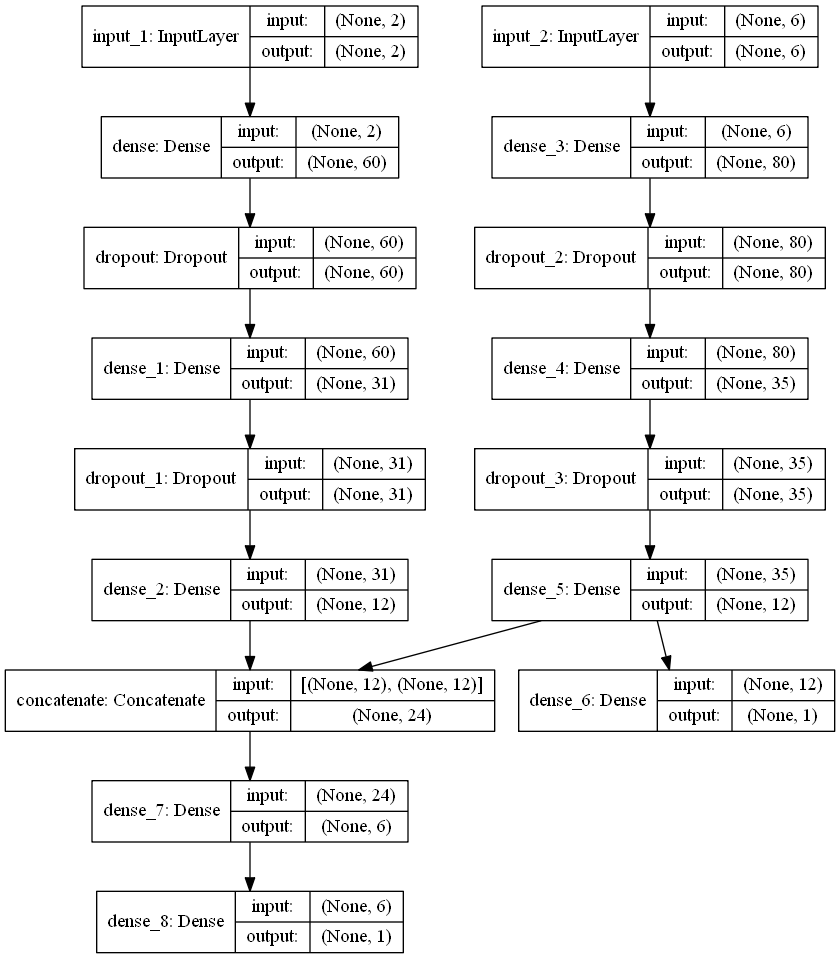
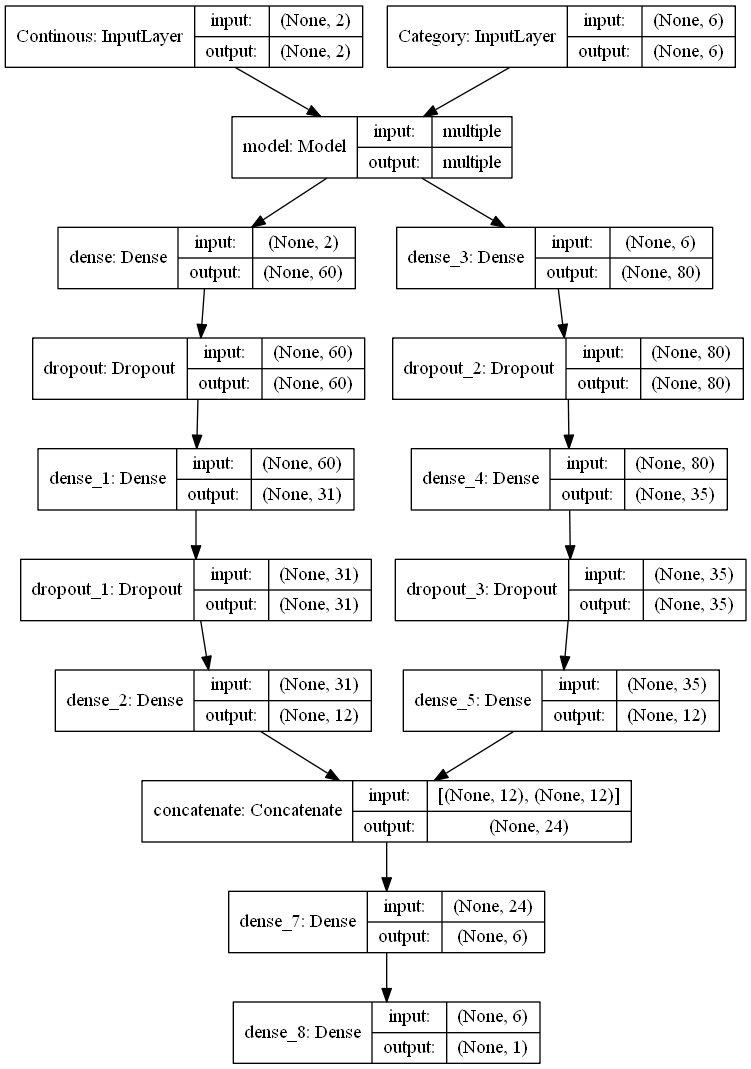
Update

Changed region(s): [[0.0, 0.0, 1.0, 0.9979], [0.0, 0.6955, 0.1225, 0.756], [0.0919, 0.8165, 0.1531, 0.877]]

diff --git a/tensorflow/Intro/kera_multi_input_functional.py b/tensorflow/Intro/kera_multi_input_functional.py
@@ -22,10 +22,14 @@ data = pd.read_csv('car.csv', compression='gzip')
 
 
 # Define target and model year
-target = data.pop('MPG')
-modelyear = data.pop('Model_year')
+target = data[['MPG']]
+target1 = data.pop('MPG')
+
+modelyear = data['Model_year']
 
 
+
+print(data.head(), target.head(), sep=sp, end=sp)
 # define dummies for categorical variables
 # data = pd.get_dummies(data, columns=['Origin','Model_year','Cylinders'], prefix='D', 
 #                     drop_first=True)
@@ -39,9 +43,17 @@ dimen_ratio = data.shape[0] / unique_shape[0]
 print(unique_shape, dimen_ratio, sep=sp, end=sp)
 
 
+
+
+
+
 # Embedding for model year
 _myshape = modelyear.values.reshape(-1, 1).shape
-model_year_input = tf.keras.Input(shape=(_myshape[1],))
+print(_myshape[1], unique_shape[0], sep=sp, end=sp)
+
+
+
+model_year_input = tf.keras.Input(shape=(_myshape[1],), name='Embedding')
 
 modelyear_embed = tf.keras.layers.Embedding(input_dim=unique_shape[0],
                                             input_length=1,
@@ -55,7 +67,7 @@ year_flatten = tf.keras.layers.Flatten()(modelyear_tensor)
 year_model = tf.keras.Model(inputs=[model_year_input], outputs=[year_flatten])
 
 
-'''
+
 
 # colnames = data.columns
 print(data.head())
@@ -93,7 +105,9 @@ xtrain, xtest, ytrain, ytest = train_test_split(data, target, test_size=0.2, ran
 # xtrain2 = pd.DataFrame([xtrain.pop(x) for x in xtrain.columns[0:4]]).T
 # xtest2 = pd.DataFrame([xtest.pop(x) for x in xtest.columns[0:4]]).T
 xtrain2 = pd.DataFrame([xtrain.pop(x) for x in xtrain.columns[0:6]]).T
+# xtrain_year = xtrain2.pop('Model_year')
 xtest2 = pd.DataFrame([xtest.pop(x) for x in xtest.columns[0:6]]).T
+# xtest_year = xtest2.pop('Model_year')
 # print(xtrain.shape, xtrain2.shape,  sep=sp, end=sp)
 
 # define constant variables
@@ -119,11 +133,17 @@ _nshape2 = xtrain2.values.shape
 
 # define input layer, for first dataset
 # tf parameters must be ndarray
-inputlayer1 = tf.keras.Input(shape=(_nshape1[1],))
+inputlayer1 = tf.keras.Input(shape=(_nshape1[1],), name='Continous')
+
+# Define layer1 embeddings
+outputlayer1 = year_model(inputlayer1)
+
+# output_embed = tf.keras.layers.concatenate([outputlayer1, dense2b])
 
 # Model the first dataset
 # using functional API, define first hidden layer for first dataset
-dense1 = tf.keras.layers.Dense(60, activation='relu')(inputlayer1)
+dense1 = tf.keras.layers.Dense(60, activation='relu')(outputlayer1)
+# dense1 = tf.keras.layers.Dense(60, activation='relu')(inputlayer1)
 
 
 # Add dropouts
@@ -143,11 +163,15 @@ dense2 = tf.keras.layers.Dense(12, activation='relu')(dropout)
 # define input layer, for second dataset
 # tf parameters must be ndarray
 # inputlayer22 = constant(data_reg.values, float)
-inputlayer2 = tf.keras.Input(shape=(_nshape2[1], ))
+inputlayer2 = tf.keras.Input(shape=(_nshape2[1], ), name='Category')
+
+# Define layer1 embeddings
+outputlayer2 = year_model(inputlayer2)
 
 # Model the second dataset
 # using functional API, define first hidden layer for second dataset
-dense1b = tf.keras.layers.Dense(80, activation='relu')(inputlayer2)
+dense1b = tf.keras.layers.Dense(80, activation='relu')(outputlayer2)
+# dense1b = tf.keras.layers.Dense(80, activation='relu')(inputlayer2)
 
 # Add dropouts
 dropout1 = tf.keras.layers.Dropout(0.2)(dense1b)
@@ -177,7 +201,8 @@ merged = tf.keras.layers.Dense(1)(merged)
 
 # Define functional model
 # pass in input tensor and merged output layer
-model = tf.keras.Model(inputs=[inputlayer1, inputlayer2], outputs=[merged, output1])
+# model = tf.keras.Model(inputs=[ model_year_input, inputlayer1, inputlayer2], outputs=[merged, output1])
+model = tf.keras.Model(inputs=[inputlayer1, inputlayer2], outputs=merged)
 # model = tf.keras.Model(inputs=[inputlayer1, inputlayer2], outputs=merged)
 
 
@@ -200,8 +225,9 @@ plt.show()
 
 # Add the number of epochs and the validation split
 # history = model.fit([data1, data2], [ytrain, ytrain], epochs=500, steps_per_epoch=20)
-history = model.fit([xtrain, xtrain2], [ytrain, ytrain], epochs=200, validation_split=0.1)
-# history = model.fit([xtrain, xtrain2], ytrain, epochs=350, validation_split=0.1)
+# history = model.fit([xtrain_year, xtrain, xtrain2], [ytrain, ytrain], epochs=200, validation_split=0.1)
+# history = model.fit([xtrain, xtrain2], [ytrain, ytrain], epochs=200, validation_split=0.1)
+history = model.fit([xtrain, xtrain2], ytrain, epochs=350, validation_split=0.1)
 # colnames = 'loss output2_loss output1_loss output2_mae output1_mae'.split()
 
 hist = pd.DataFrame(history.history)
@@ -228,10 +254,12 @@ plt.show()
 
 
 # Evaluate the model
-# loss, mae = model.evaluate([xtest, xtest2], ytest, verbose=0)
-loss, loss2, loss1, mae2, mae1 = model.evaluate([xtest, xtest2], [ytest, ytest], verbose=0)
-# print(f'Mean absolute error = {mae:.2f}')
-print(f'Mean absolute error = {mae2:.2f}')
+loss, mae = model.evaluate([xtest, xtest2], ytest, verbose=0)
+# loss, loss2, loss1, mae2, mae1 = model.evaluate([xtest, xtest2], [ytest, ytest], verbose=0)
+# loss, loss2, loss1, mae2, mae1 = model.evaluate([xtest, xtest2], [ytest, ytest], verbose=0)
+print(f'Mean absolute error = {mae:.2f}')
+# print(f'Mean absolute error = {mae2:.2f}')
 
 
-'''
+
+
